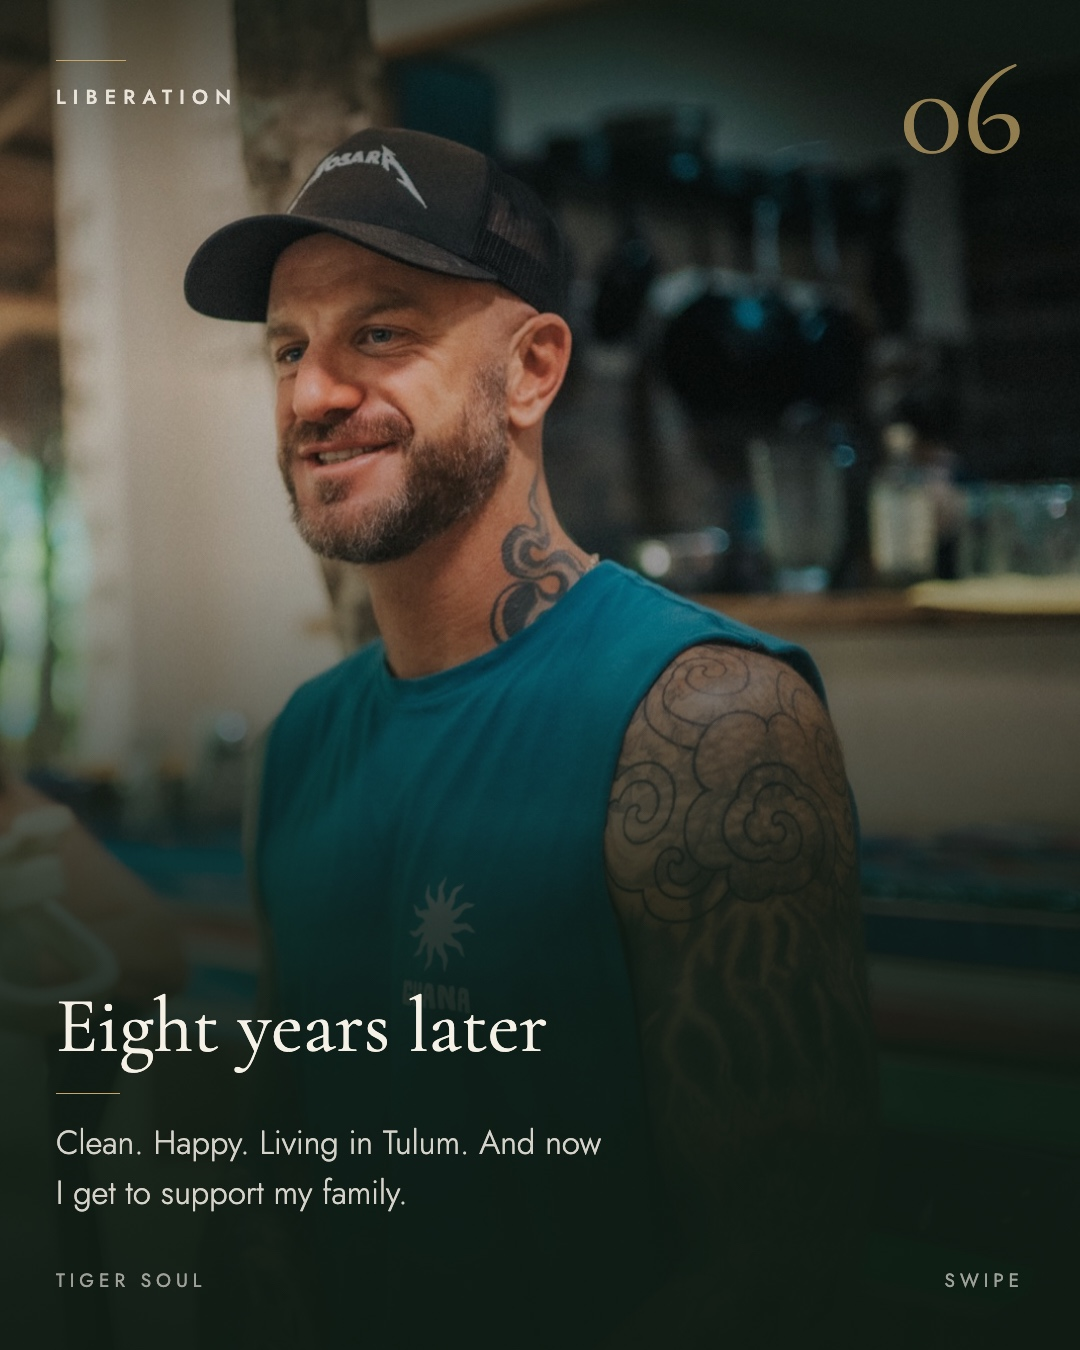
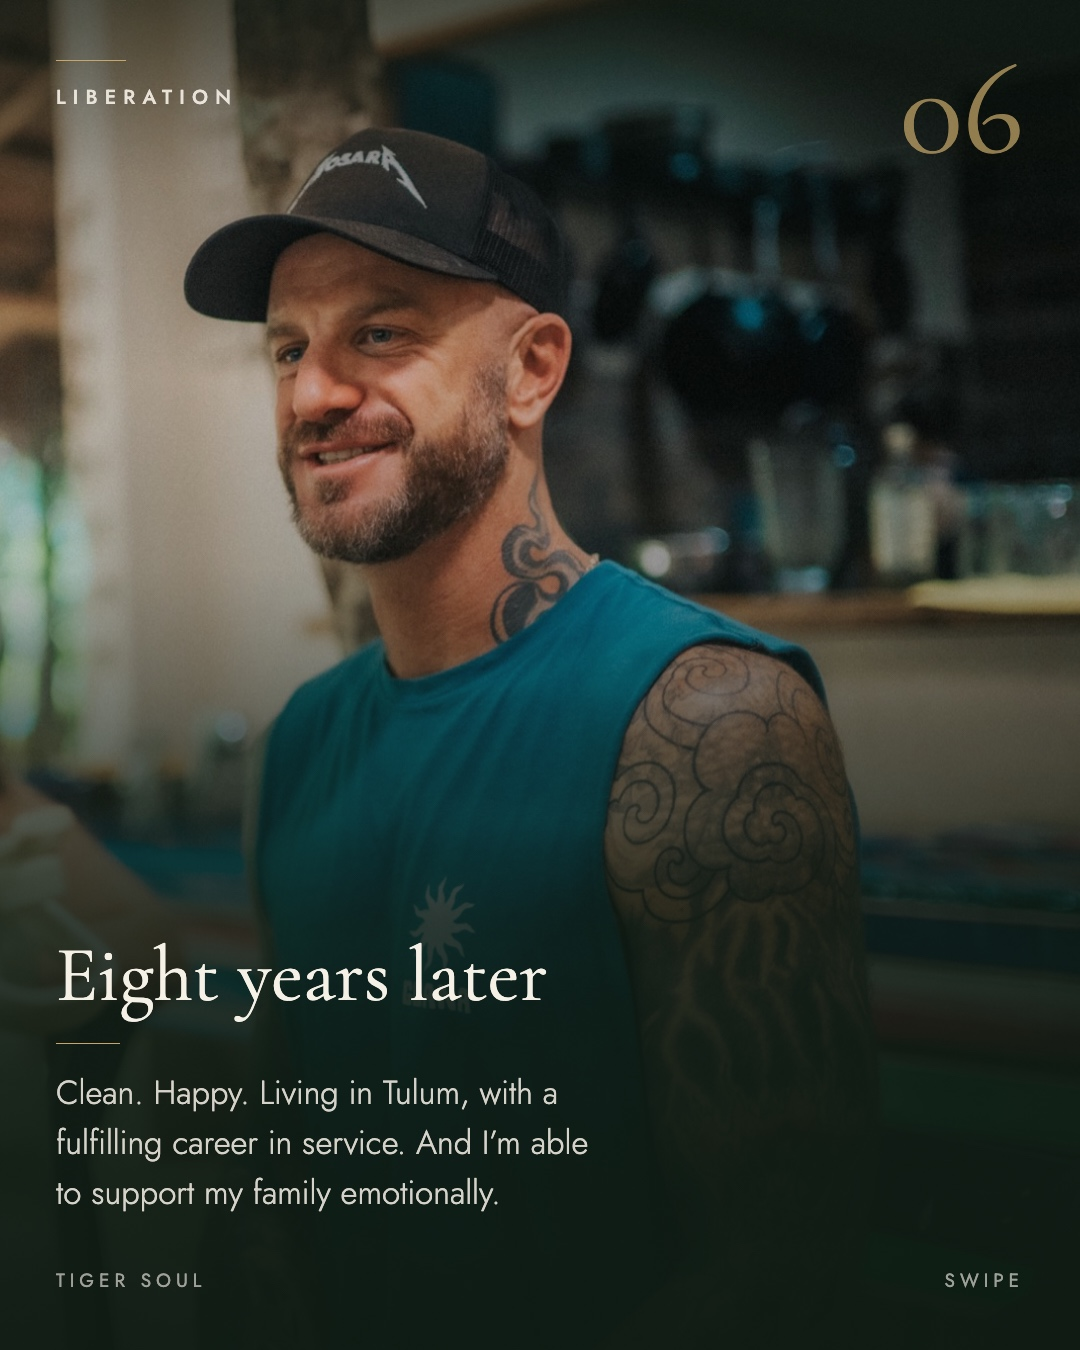
Calendar: Blaine's edits on the Sept 22 Liberation carousel
Slides 6-9 and the caption: fulfilling career in service, supporting
family emotionally, staying on the path, genuine connection in place of
brotherhood, integration wording, and freeing yourself from suffering.

Changed region(s): [[0.0611, 0.6844, 0.55, 0.9022]]

diff --git a/index.html b/index.html
@@ -630,7 +630,7 @@ const POSTS = [
       "Confirm Tulum vs Lunita for the retreat week (slide 8)",
       "Post the slides in order (Slide 1 \u2192 9)"
     ],
-    caption:"Here's a secret nobody tells you about healing.\n\nYou were never broken. The parts you keep trying to fix are armor, and you built them to survive.\n\nI wore mine for twenty years. Eight years ago I started taking it off, one layer at a time. Today I'm clean, I'm happy, and I get to support my family.\n\nEverything I learned went into the Liberation Program. Four weeks of online preparation, one week together in Tulum with sacred medicine and brotherhood, and four weeks of integration so the change holds in real life.\n\nIf you've been managing the same pain for years, this is your sign. Apply through the link in bio.",
+    caption:"Here's a secret nobody tells you about healing.\n\nYou were never broken. The parts you keep trying to fix are armor, and you built them to survive.\n\nI wore mine for twenty years. Eight years ago I started taking it off, one layer at a time. Today I'm clean, I'm happy, I have a fulfilling career in service, and I'm able to support my family emotionally.\n\nEverything I learned went into the Liberation Program. Four weeks of online preparation, one week together in Tulum with the medicines and genuine connection with new friends, and four more weeks to anchor and integrate the teachings.\n\nIf you've been managing the same pain for years, this is your sign to free yourself from the suffering. Apply through the link in bio.",
     notes:"Blaine's story, cut down from his long script.\n\nThe structure:\n\u2022  Slide 1 is the hook: the secret.\n\u2022  Slide 2 is the reveal: you were never broken. It sets up the armor idea the rest of the carousel uses.\n\u2022  Slides 3-5 are his past, worded gently and mostly in his own words.\n\u2022  Slides 6-7 are who he is now and what changed.\n\u2022  Slide 8 introduces the Liberation Program.\n\u2022  Slide 9 turns the question to the viewer and points to the link in bio.",
     assets:[
       {src:"assets/carousel-liberation/01.jpg", thumb:"assets/carousel-liberation/thumb/01.jpg", cap:"Slide 1: Here's the secret about healing"},
